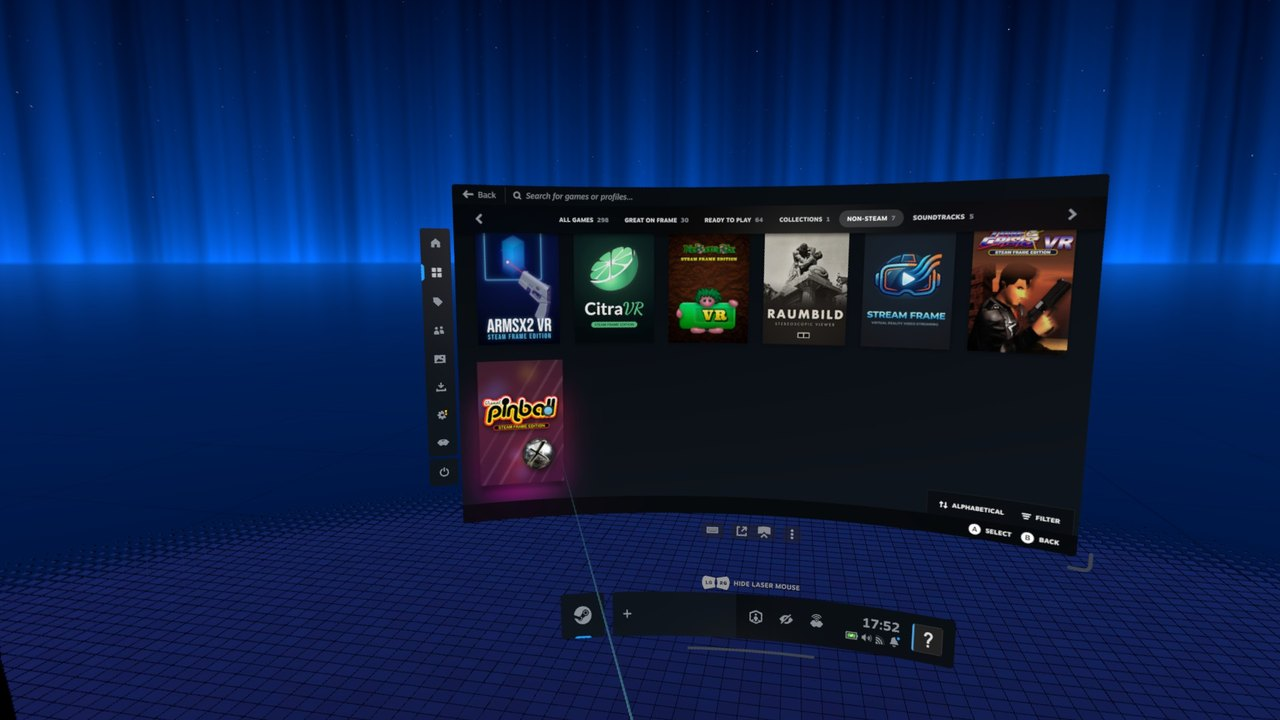
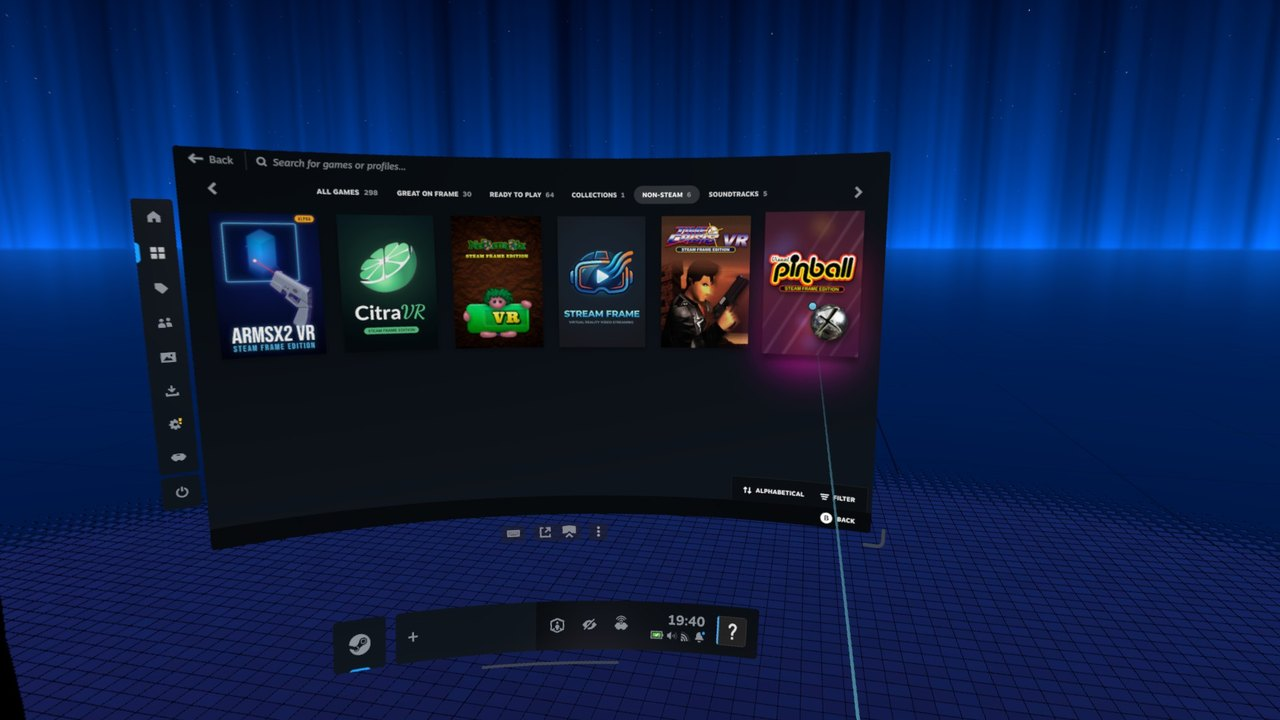
fixup! Steam Frame: README, documentation and sync tools of the fork
Tutorials: the video of Installing the Game (https://youtu.be/HmzkSPvwXjg) at the top of the tutorial and in the index; screenshots of
Developer Mode taken in the headset (Steam Settings > System and Developer, the options boxed), the steps still credited to Valve's setup
guide; a new screenshot of the Non-Steam tab with the game selected.

diff --git a/docs/tutorials/Installing the Game.md b/docs/tutorials/Installing the Game.md
@@ -4,6 +4,11 @@ Visual Pinball X: Steam Frame Edition is not on the Steam store. It is installed
 the **installer app**: it finds the Frame, checks that it is ready, then downloads the latest version of the game and installs it, with its
 entry and artwork in the Steam library. Nothing is installed on the computer itself.
 
+[![Installing the game: the video](img/installing-the-game-video.jpg)](https://youtu.be/HmzkSPvwXjg)
+
+**▶ [Watch the video](https://youtu.be/HmzkSPvwXjg)** (1:34): the same steps, from the download of the installer to the game in the Steam
+library. The text below follows it, with more details.
+
 You need:
 
 - A Steam Frame and a computer on the **same network**.
@@ -13,15 +18,19 @@ You need:
 ## 1. Turn on Developer Mode on the Frame
 
 The installer reaches the Frame the way developers do, so the Frame must be in Developer Mode, with a password for its `steamos` user.
-Valve describes both steps, with screenshots, in its
-[Steam Frame setup guide](https://partner.steamgames.com/doc/steamhardware/steamframe/setup):
+These are the steps of Valve's [Steam Frame setup guide](https://partner.steamgames.com/doc/steamhardware/steamframe/setup):
 
 1. Open **Steam Settings > System** and turn on **Enable Developer Mode**.
-2. On the left, scroll down to the new **Developer** section. Near the bottom of that page, choose **Set User Password** and pick a
-   password. The installer asks for it.
 
-*Source: Valve, [Steamworks Documentation, Steam Frame setup](https://partner.steamgames.com/doc/steamhardware/steamframe/setup),
-section "Developer Mode".*
+   ![Steam Settings > System, Enable Developer Mode](img/install-devmode-1-system.jpg)
+
+2. On the left, scroll down to the new **Developer** section. Near the bottom of that page, choose **Set User Password** and pick a
+   password. The installer asks for it. Once a password is set, the button says **Change User Password**, as here.
+
+   ![Steam Settings > Developer, the user password](img/install-devmode-2-developer.jpg)
+
+*Source of the steps: Valve, [Steamworks Documentation, Steam Frame setup](https://partner.steamgames.com/doc/steamhardware/steamframe/setup),
+section "Developer Mode". The screenshots were taken in a Steam Frame.*
 
 Keep the headset on (or awake) while installing: it leaves the network when it goes to sleep.
 

diff --git a/docs/tutorials/tutorials.md b/docs/tutorials/tutorials.md
@@ -4,5 +4,5 @@ Step-by-step guides for Visual Pinball X: Steam Frame Edition, with screenshots 
 
 | Tutorial | Video | What it shows |
 |---|---|---|
-| [Installing the game](Installing%20the%20Game.md) | | Developer Mode on the Frame, the installer app on a computer (download, connect, install), and starting the game from the Non-Steam tab of the library. |
+| [Installing the game](Installing%20the%20Game.md) | [▶ 1:34](https://youtu.be/HmzkSPvwXjg) | Developer Mode on the Frame, the installer app on a computer (download, connect, install), and starting the game from the Non-Steam tab of the library. |
 | [Adding tables and ROMs](Adding%20Tables%20and%20ROMs.md) | [▶ 2:36](https://youtu.be/4qvbUkFgUvI) | From a fresh install to a first game: Wi-Fi upload, uploading a table from a browser, the missing ROM message, uploading the ROM, the first start of a game. |
